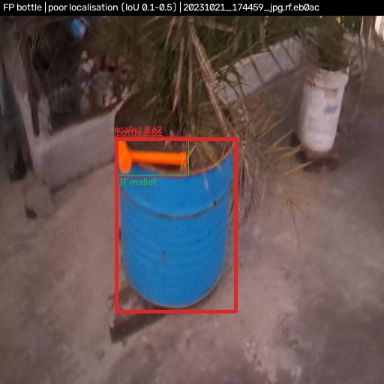
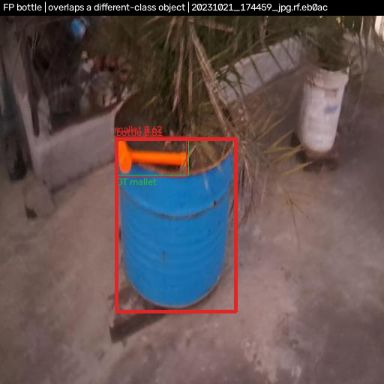
fix FP subtype: overlap with a different-class object is not poor localisation

Changed region(s): [[0.125, 0.0, 0.875, 0.0312]]

diff --git a/scripts/error_analysis.py b/scripts/error_analysis.py
@@ -126,8 +126,10 @@ def main():
                 best_any = float(ious[m.pred_idx].max()) if len(G) else 0.0
                 if best_same >= 0.5 and any(g in matched_gt for g in same if ious[m.pred_idx, g] >= 0.5):
                     sub = "duplicate of a matched object"
-                elif best_any >= 0.1:
+                elif best_same >= 0.1:
                     sub = "poor localisation (IoU 0.1-0.5)"
+                elif best_any >= 0.1:  # e.g. a 'bottle' box drawn over the barrel a mallet is lying on
+                    sub = "overlaps a different-class object"
                 else:
                     sub = "background (no object there)"
                 e.update(cls=CLASS_NAMES[int(p[0])], size=size_bucket(p[3], p[4]), conf=float(p[5]), subtype=sub)

diff --git a/results/errors.md b/results/errors.md
@@ -20,7 +20,8 @@ Every error is saved in `results/errors/` (green = GT, red = prediction, thick =
 | fn | poorly localised (IoU 0.1-0.5) | 14 |
 | fp | background (no object there) | 16 |
 | fp | duplicate of a matched object | 3 |
-| fp | poor localisation (IoU 0.1-0.5) | 16 |
+| fp | overlaps a different-class object | 3 |
+| fp | poor localisation (IoU 0.1-0.5) | 13 |
 | wrong_class | class confusion | 3 |
 
 ## By class
